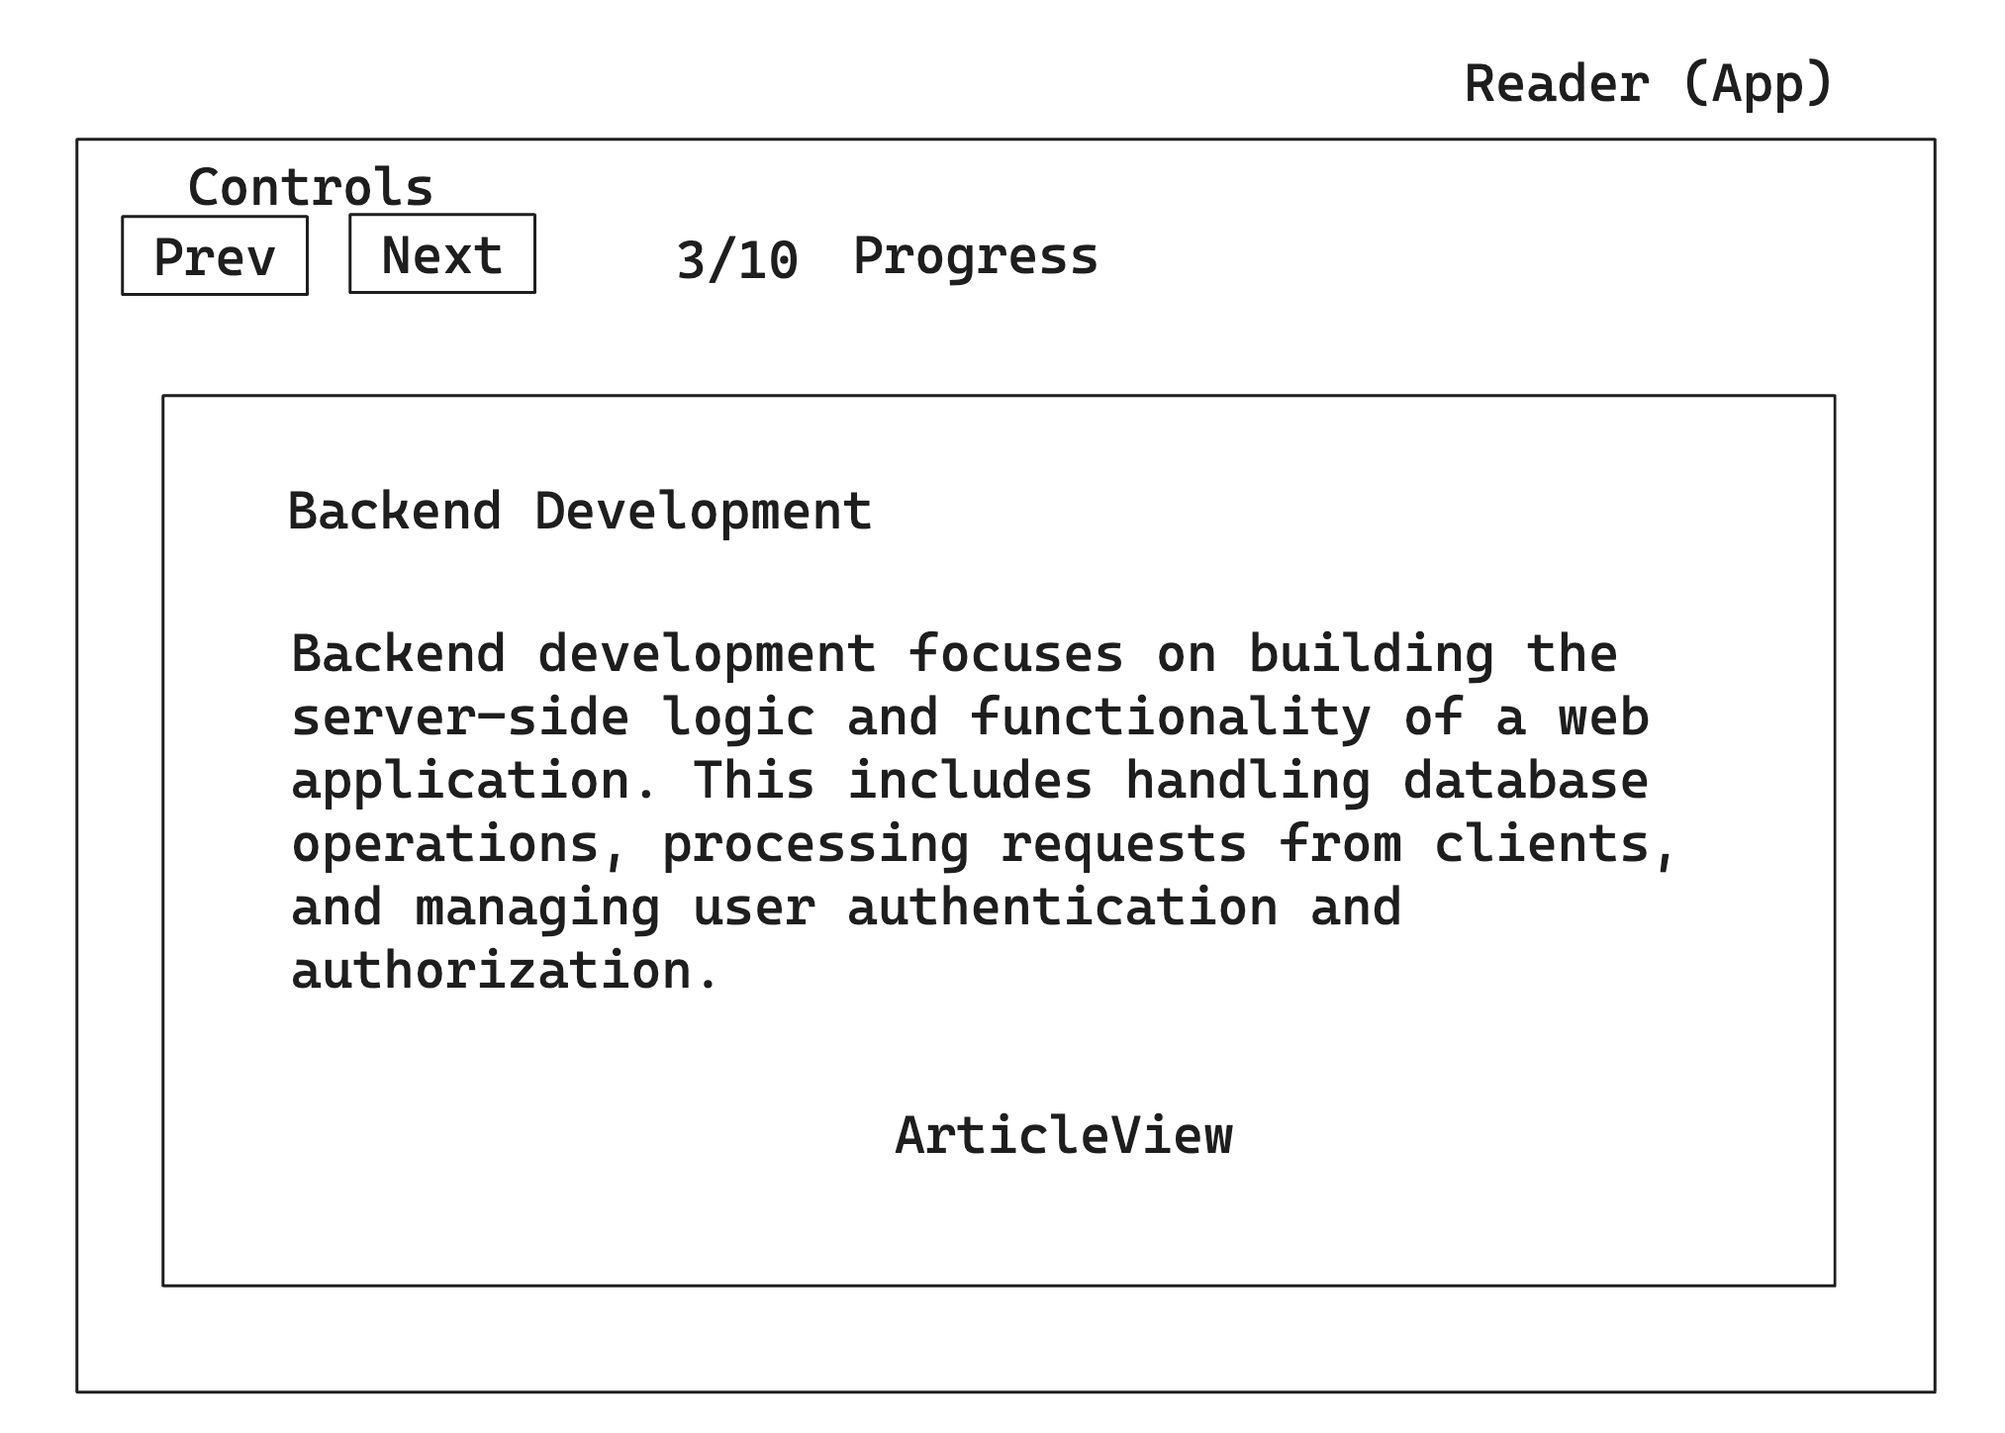
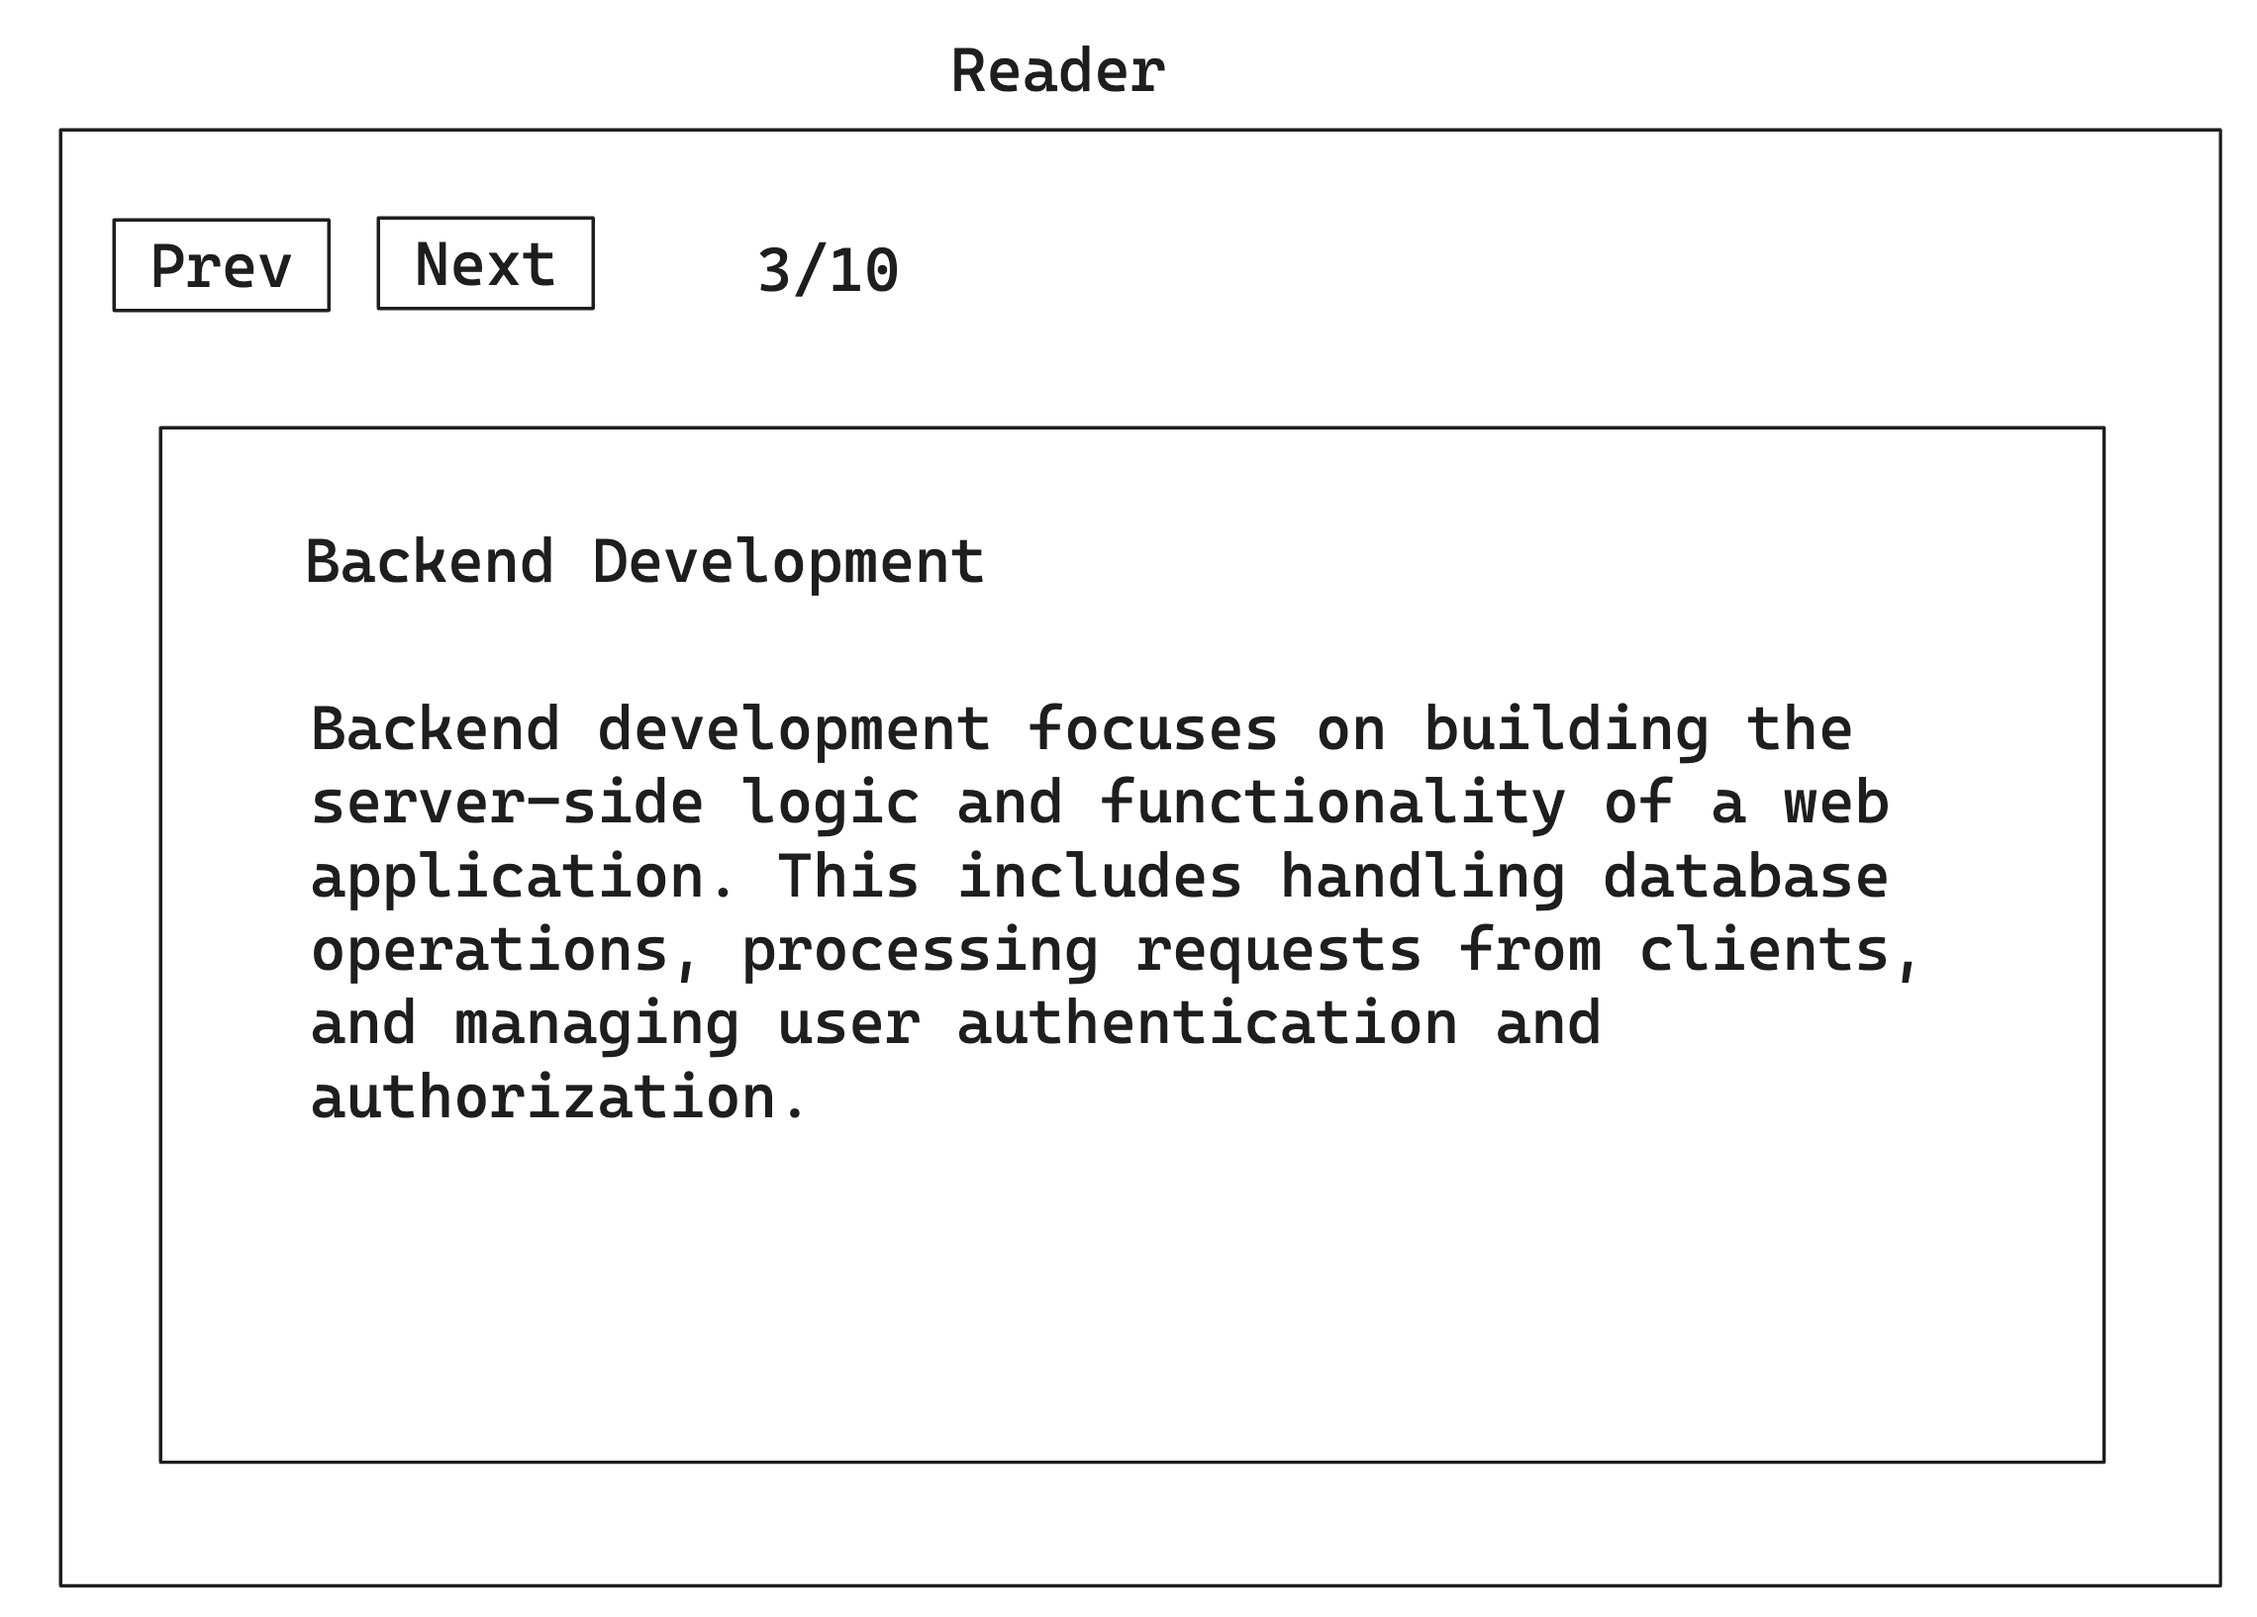
update examples

diff --git a/src/components/Reader/Reader.jsx b/src/components/Reader/Reader.jsx
@@ -1,0 +1,19 @@
+export default function Reader({ items }) {
+  return (
+    <div>
+      <header>
+        <div>
+          <button>Prev</button>
+          <button>Next</button>
+        </div>
+
+        <p>0/0</p>
+      </header>
+
+      <article>
+        <h2>Topic</h2>
+        <p>Text</p>
+      </article>
+    </div>
+  );
+}

diff --git a/src/components/App/App.jsx b/src/components/App/App.jsx
@@ -1,0 +1,12 @@
+// import articles from "../../articles.json";
+import css from "./App.module.css";
+
+export default function App() {
+  return (
+    <div className={css.container}>
+      <h1>State in React</h1>
+
+      {/* <Reader items={articles} /> */}
+    </div>
+  );
+}

diff --git a/src/main.jsx b/src/main.jsx
@@ -1,6 +1,6 @@
 import React from "react";
 import ReactDOM from "react-dom/client";
-import App from "./components/App";
+import App from "./components/App/App";
 import "modern-normalize";
 import "./index.css";
 

diff --git a/src/components/App/App.module.css b/src/components/App/App.module.css
@@ -1,0 +1,4 @@
+.container {
+  max-width: 1170px;
+  margin: 0 auto;
+}

diff --git a/README.md b/README.md
@@ -13,6 +13,6 @@
   - Асинхронність оновлення стану
   - Ізоляція стану
   - [!Підняття стану](./assets/lifting-state.png)
-  - Декілька станів
+  - Декілька станів (зробити ефект toggle з `setIsVisible(!isVisible)`)
   - Оновлення об'єктів
 - [!Воркшоп Article Reader](./assets/reader.png)
